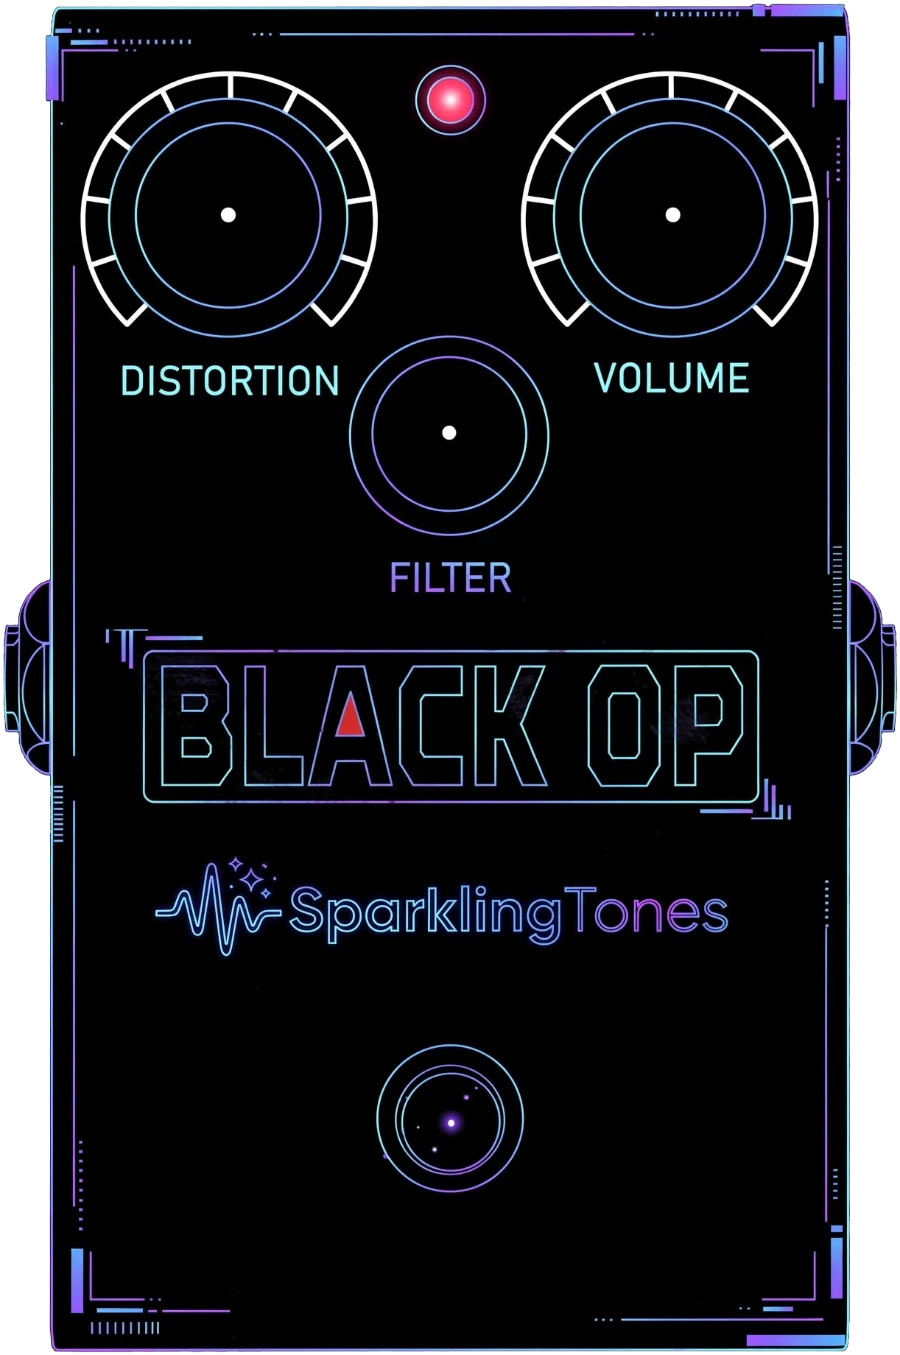
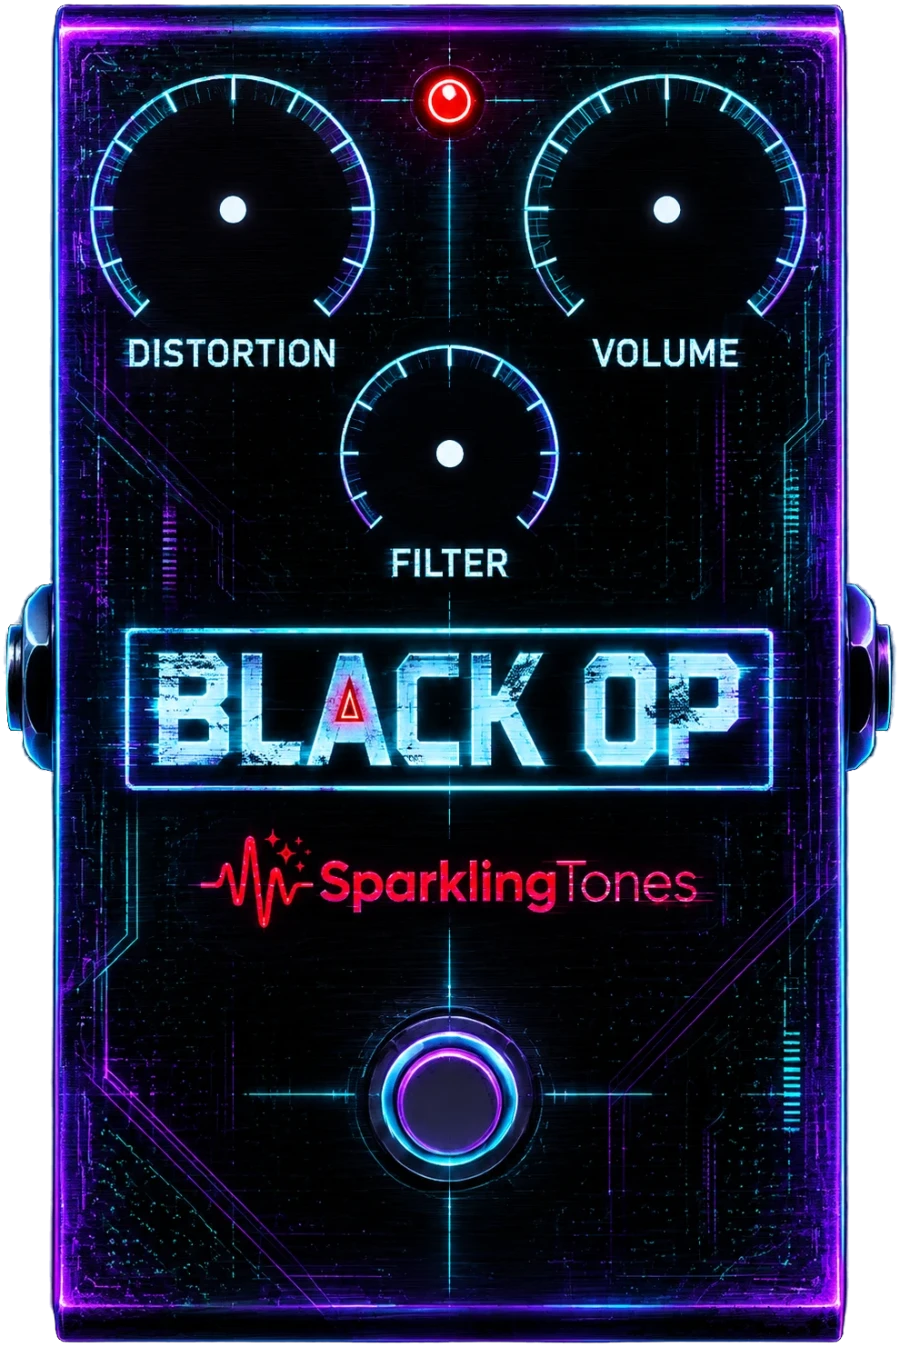
Bozza: Black Op e SAB Driver rifatti dall'utente
Misure rifatte, indici invariati; la levetta HP/LP del SAB Driver ora è
disegnata giù (LP).

diff --git a/src/spark-immagini.js b/src/spark-immagini.js
@@ -673,18 +673,18 @@
       led: { x: 449.1, y: 121.7, r: 23.3 },
       pulsante: { x: 450, y: 1255.2, r: 68 },
     },
-    // Black Op: la manopola copre il cerchio interno e lascia l'anello attorno
-    // (e la scala bianca) in vista. Contorni da azzurro a viola: la «neon».
+    // Black Op (modello «ProCoRat»), rifatto: Distortion e Volume in alto, Filter
+    // in mezzo, dentro le corone di tacche azzurre e viola.
     ProCoRat: {
-      src: 'immagini/blocchi/ProCoRat.webp', w: 900, h: 1355,
+      src: 'immagini/blocchi/ProCoRat.webp', w: 900, h: 1347,
       manopola: manopola('neon'),
       manopole: [
-        { indice: 0, x: 227.9, y: 214.5, r: 114.2 },  // Distortion
-        { indice: 2, x: 672.6, y: 214.4, r: 114.2 },  // Volume
-        { indice: 1, x: 448.8, y: 432.5, r: 94.3 },   // Filter
+        { indice: 0, x: 232.5, y: 209.2, r: 113.6 },   // Distortion
+        { indice: 2, x: 666.6, y: 209.6, r: 113.6 },   // Volume
+        { indice: 1, x: 449.5, y: 453.5, r: 86.4 },   // Filter
       ],
-      led: { x: 449.2, y: 100.2, r: 19.1 },
-      pulsante: { x: 450, y: 1120.2, r: 51.6 },
+      led: { x: 449.1, y: 100.9, r: 20 },
+      pulsante: { x: 449.1, y: 1100, r: 63.6 },
     },
     // Bass Muff. Lo sfondo dell'originale è grigio scuro, non nero: si è tolto
     // con `&pieno=45&alto=100&basso=45`. La manopola copre il cerchio interno e
@@ -727,23 +727,22 @@
       led: { x: 448.1, y: 93.8, r: 19.7 },
       pulsante: { x: 448.5, y: 1122, r: 56.8 },
     },
-    // SAB Driver. Il parametro 3, HP/LP, è la levetta fra Volume e Drive: in
-    // alto HP, in basso LP. Nell'unico preset vero visto vale 1. **Da
-    // verificare a orecchio**: si assume 1 = HP = in alto, com'è disegnata.
-    // La spia è la luce azzurra sopra il footswitch.
+    // SAB Driver, rifatto. Il parametro 3, HP/LP, è la levetta fra Volume e Drive:
+    // in alto HP, in basso LP; qui è disegnata giù (`su: 0`). **Da verificare a
+    // orecchio**: si assume 1 = HP = in alto. La spia sta sopra il footswitch.
     SABdriver: {
-      src: 'immagini/blocchi/SABdriver.webp', w: 900, h: 1611,
-      manopola: manopola('viola'),
+      src: 'immagini/blocchi/SABdriver.webp', w: 900, h: 1310,
+      manopola: manopola('neon'),
       manopole: [
-        { indice: 0, x: 197.8, y: 251.3, r: 125.9 },  // Volume
-        { indice: 2, x: 701.3, y: 251.3, r: 125.9 },  // Drive
-        { indice: 1, x: 449.6, y: 513.4, r: 107.9 },  // Tone
+        { indice: 0, x: 234.7, y: 216.2, r: 91.3 },   // Volume
+        { indice: 2, x: 668.2, y: 216.1, r: 91.3 },   // Drive
+        { indice: 1, x: 450.1, y: 442.4, r: 88.5 },   // Tone
       ],
       levette: [
-        { indice: 3, x: 449.6, y: 241.9, r: 34.2, su: 1 },   // HP (su) / LP (giù)
+        { indice: 3, x: 450.9, y: 209, r: 29.2, su: 0 },   // LP (giù, com'è disegnata) / HP (su)
       ],
-      led: { x: 449.6, y: 1272.2, r: 25.2 },
-      pulsante: { x: 449.6, y: 1435, r: 80.9 },
+      led: { x: 450, y: 1026.9, r: 18.3 },
+      pulsante: { x: 450, y: 1166.5, r: 69.4 },
     },
     // Il Silver 120 con la sua cassa sotto, per riempire il riquadro: i primi
     // tre comandi sul pannello azzurro, Treble e Volume su quello verde.
